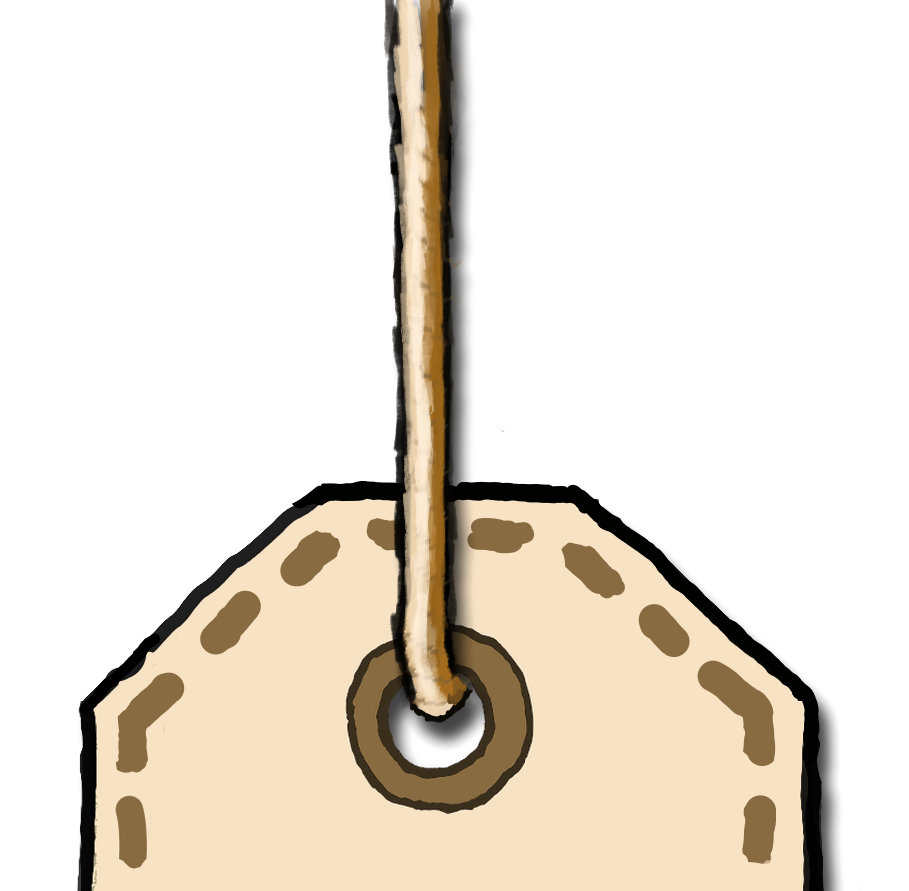
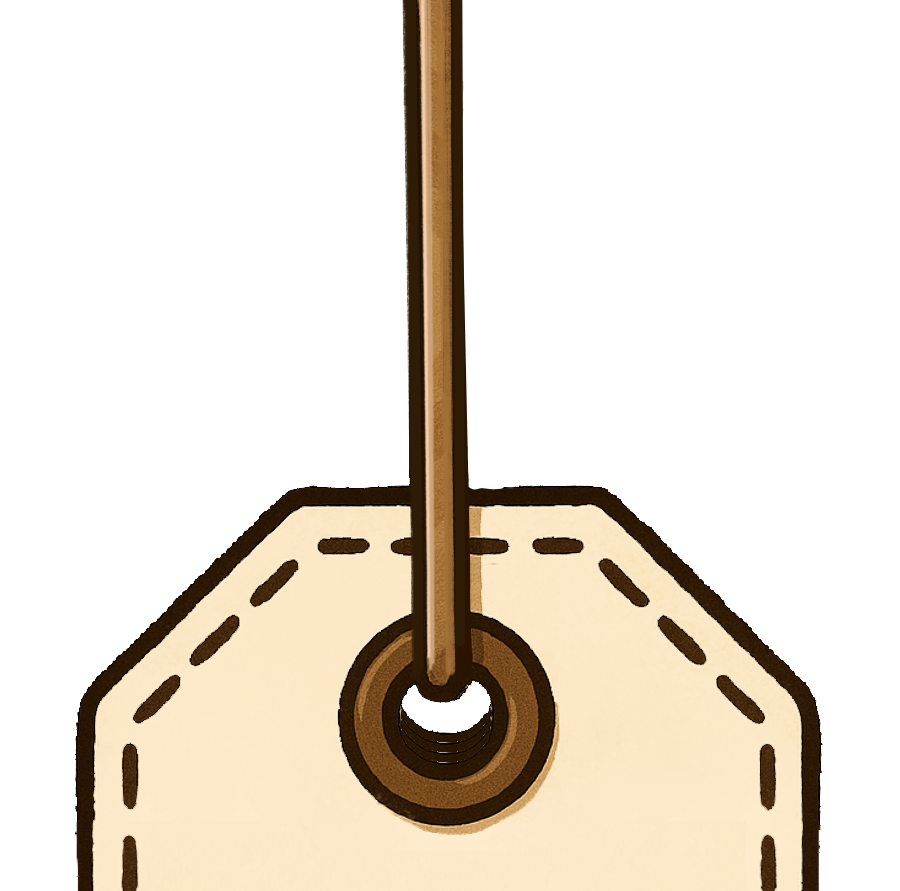
Cleanup price tag

Changed region(s): [[0.0622, 0.0, 0.9333, 1.0]]

diff --git a/deckhand2/2.css b/deckhand2/2.css
@@ -287,7 +287,7 @@ img {
 }
 
 .price-tag-bottom {
-    background-image: url(img/price-tag.png);
+    background-image: url(img/price-tag-2.png);
     background-size:cover;
     background-repeat: no-repeat;
     background-position: bottom;
